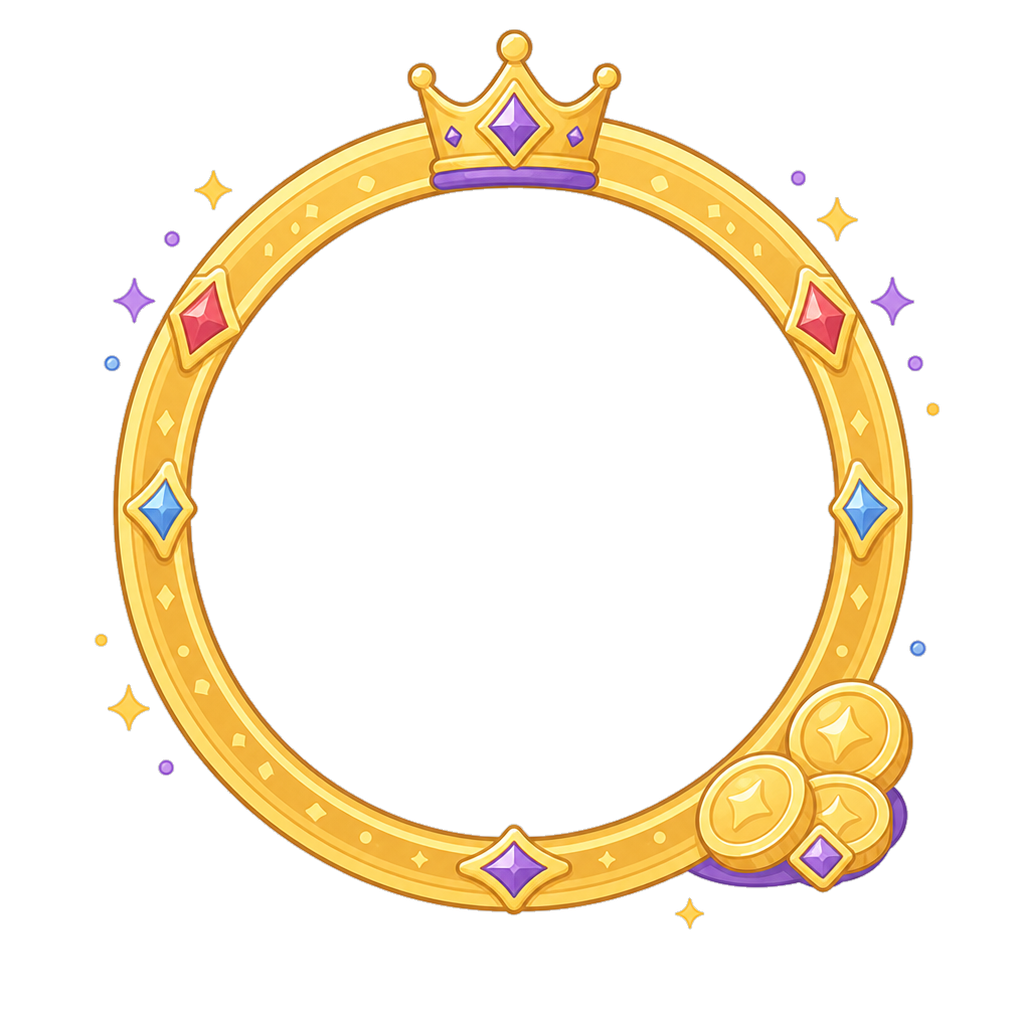
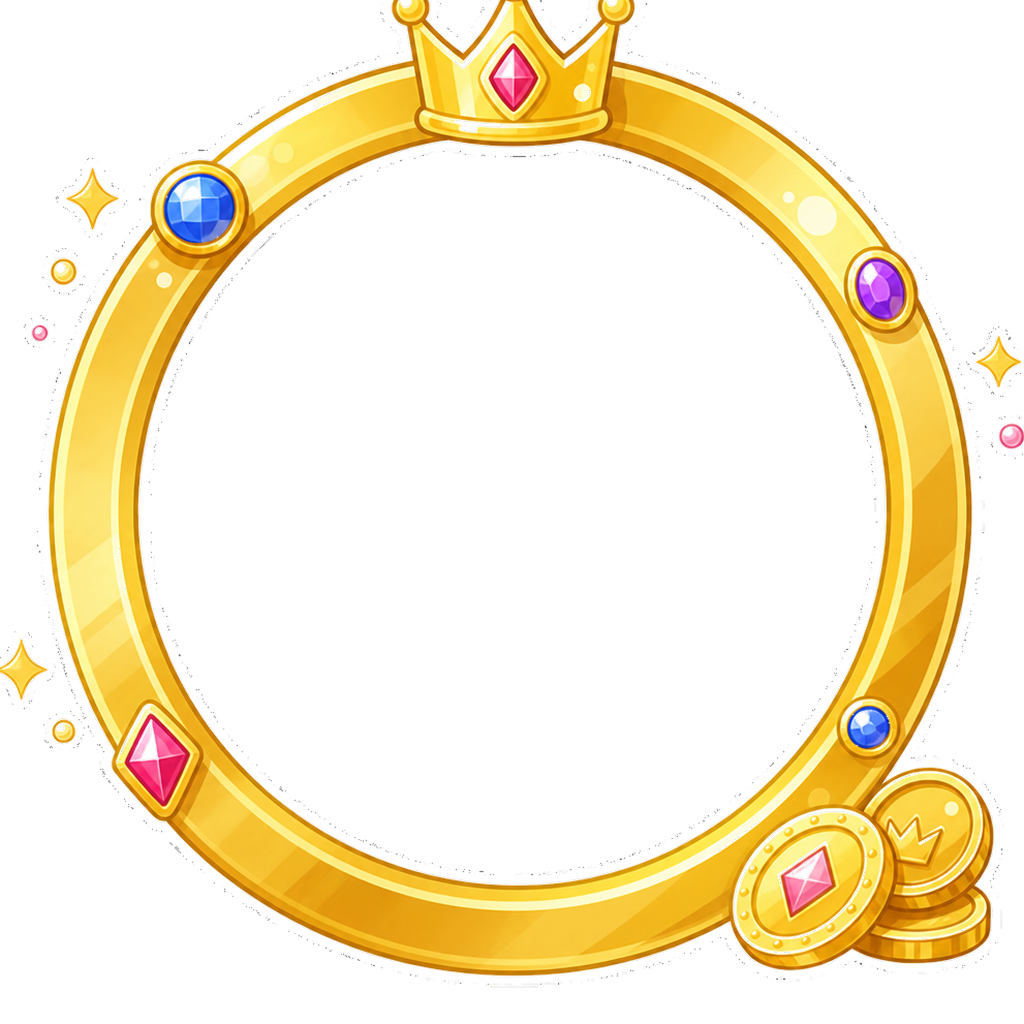
fix: ajusta encaixe das molduras e move adicionar refeição para a lista

diff --git a/frontend/lib/features/home/pages/home_page.dart b/frontend/lib/features/home/pages/home_page.dart
@@ -779,10 +779,7 @@ class _HomeBody extends StatelessWidget {
               child: Column(
                 children: [
                   const SizedBox(height: AppSpacing.xxl),
-                  _Header(
-                    userProfile: userProfile,
-                    onAvatarTap: onAvatarTap,
-                  ),
+                  _Header(userProfile: userProfile, onAvatarTap: onAvatarTap),
                   const SizedBox(height: AppSpacing.xxxl),
                   HomeDailyGoalWithMascot(
                     mascotAsset: HomePage._mealAsset,
@@ -800,8 +797,6 @@ class _HomeBody extends StatelessWidget {
                     onTap: onSelectedDateTap,
                   ),
                   const SizedBox(height: AppSpacing.sm),
-                  _AddMealAction(onTap: onAddMealPressed),
-                  const SizedBox(height: AppSpacing.lg),
                 ],
               ),
             ),
@@ -817,14 +812,19 @@ class _HomeBody extends StatelessWidget {
                     AppSpacing.lg,
                     AppSpacing.xxxl + bottomInset + 56,
                   ),
-                  itemCount: dayRecords.length,
+                  itemCount: dayRecords.length + 1,
                   separatorBuilder: (_, __) =>
                       const SizedBox(height: AppSpacing.lg),
                   itemBuilder: (context, index) {
-                    final record = dayRecords[index];
+                    if (index == 0) {
+                      return _AddMealAction(onTap: onAddMealPressed);
+                    }
+
+                    final recordIndex = index - 1;
+                    final record = dayRecords[recordIndex];
 
                     return HomeMealCard(
-                      cardKey: ValueKey('home-meal-card-$index'),
+                      cardKey: ValueKey('home-meal-card-$recordIndex'),
                       title: record.title,
                       description: record.description,
                       kcal: record.kcalLabel,

diff --git a/frontend/lib/shared/widgets/framed_avatar.dart b/frontend/lib/shared/widgets/framed_avatar.dart
@@ -95,9 +95,8 @@ class FramedAvatar extends StatelessWidget {
       case 'fruit_ring':
         return 0.86;
       case 'fire_streak':
-        return 0.65;
       case 'royal_gold':
-        return 0.66;
+        return 0.8;
       default:
         return framedAvatarScale;
     }